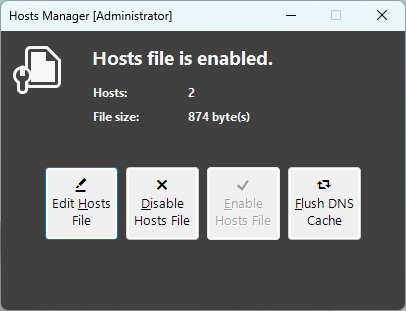
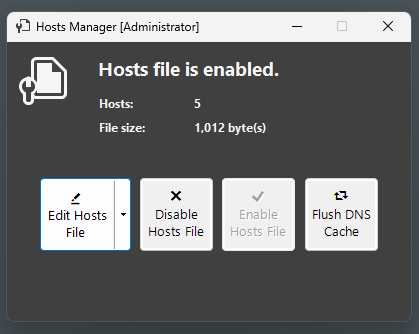
Doc & screenshot updates

diff --git a/README.md b/README.md
@@ -1,16 +1,21 @@
 # Hosts Manager
 
-**Just another Windows hosts file manager.** Hosts Manager is a ***Developer*** tool, a small, simple, Windows system tray application. Using Hosts Manager you can quickly open your **hosts** file (read-only). When elevated, you can edit, enable/disable all hosts and quickly clear your dns cache.
+**Just another Windows hosts file manager.** Hosts Manager is a ***Developer*** tool, a small, simple, Windows system tray application. Using Hosts Manager you can quickly open your **hosts** file (read-only). When elevated, you can edit, enable/disable all hosts and quickly clear your local DNS cache.
 
 ![image](docs/Main.png)
 
 ### Elevation ###
-**Note:** The **hosts** file in Windows is protected and requires elevation to make changes. Hosts Manager allows you to quickly elevate, and edit the **hosts** file.
+**Note:** The **hosts** file in Windows is protected and requires elevation to make changes. Hosts Manager allows you to quickly elevate, open and edit your **hosts** file.
 
 ![image](docs/Main-Elevated.png)
 
+### [New!] Open with your preferred Editor ###
+Hosts Manager now supports opening your **hosts** file with **Notepad++** or **Visual Studio Code**. More editors coming soon!
+
+![image](docs/Main-Settings.png)
+
 ### System tray ###
-Hosts Manager is a system tray application, it will automatically minimize to your system tray. By default, Hosts Manager will start (minimized) automatically. You can disable auto-start in Windows Task Manager (**Ctrl+Alt+Esc** -> Startup apps). To exit Hosts Manager, right click the system tray icon and select **Exit**.
+Hosts Manager is a system tray application, it will automatically minimize to your system tray. By default, Hosts Manager will start (minimized). You can disable auto-start in Windows Task Manager (**Ctrl+Alt+Esc** -> Startup apps). To exit Hosts Manager, right click the system tray icon and select **Exit**.
 
 ![image](docs/Sys-Tray-1.png)
 
